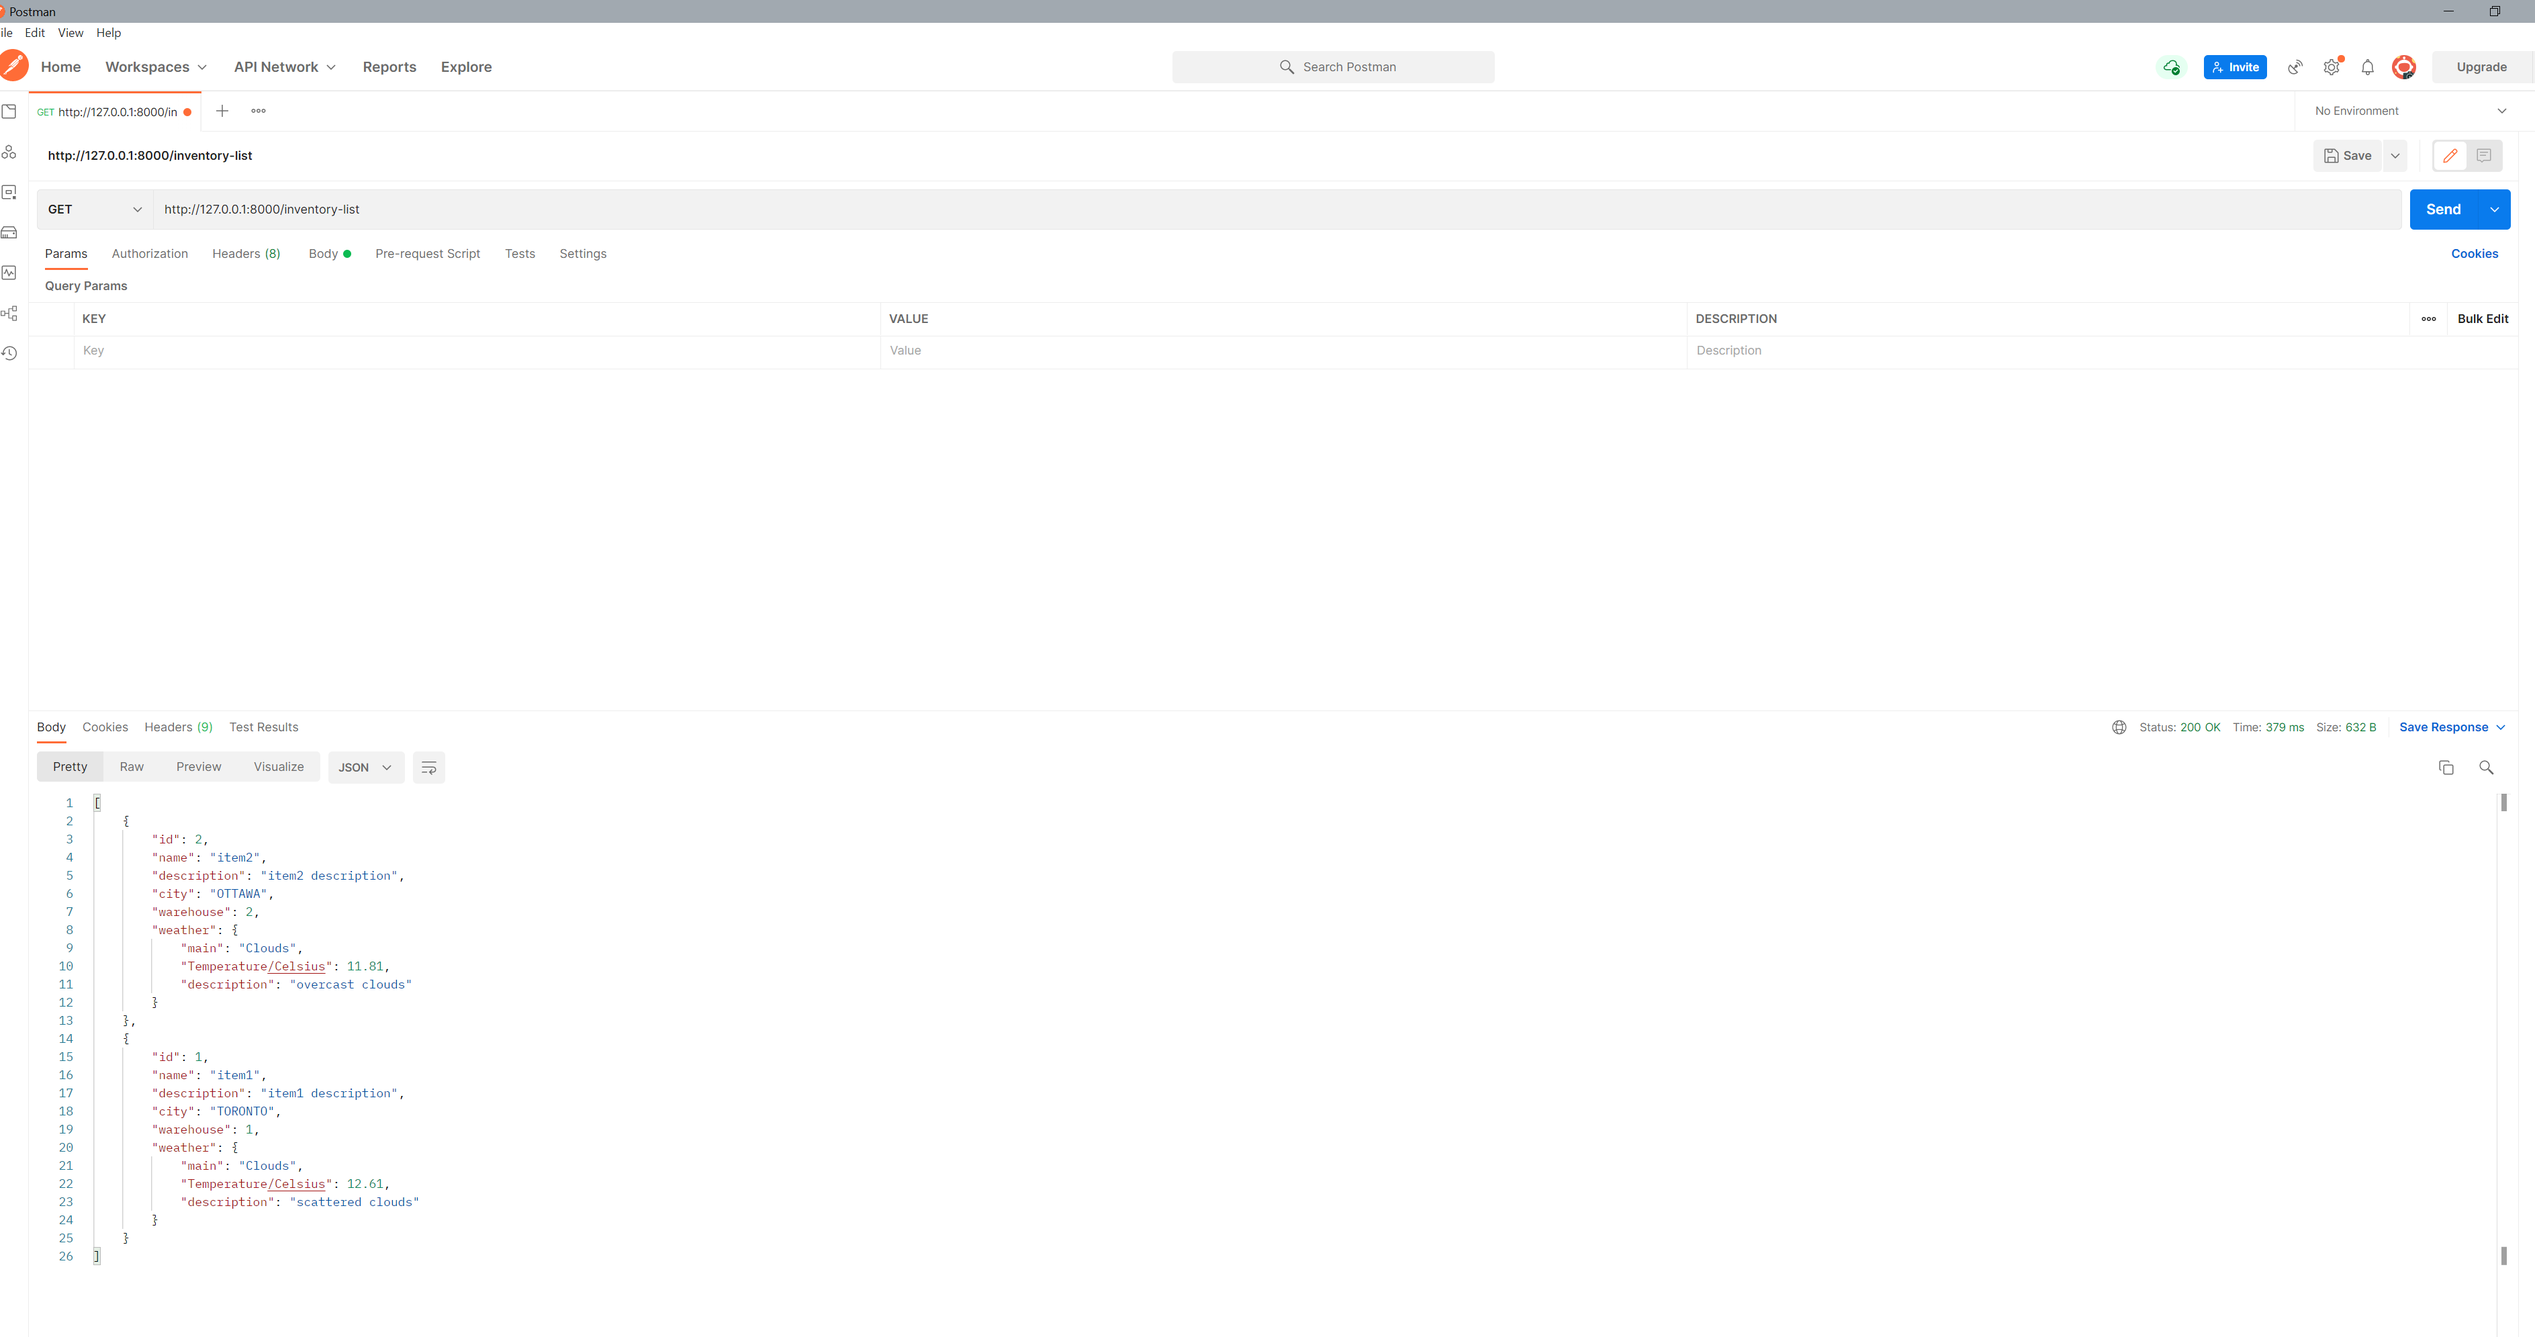
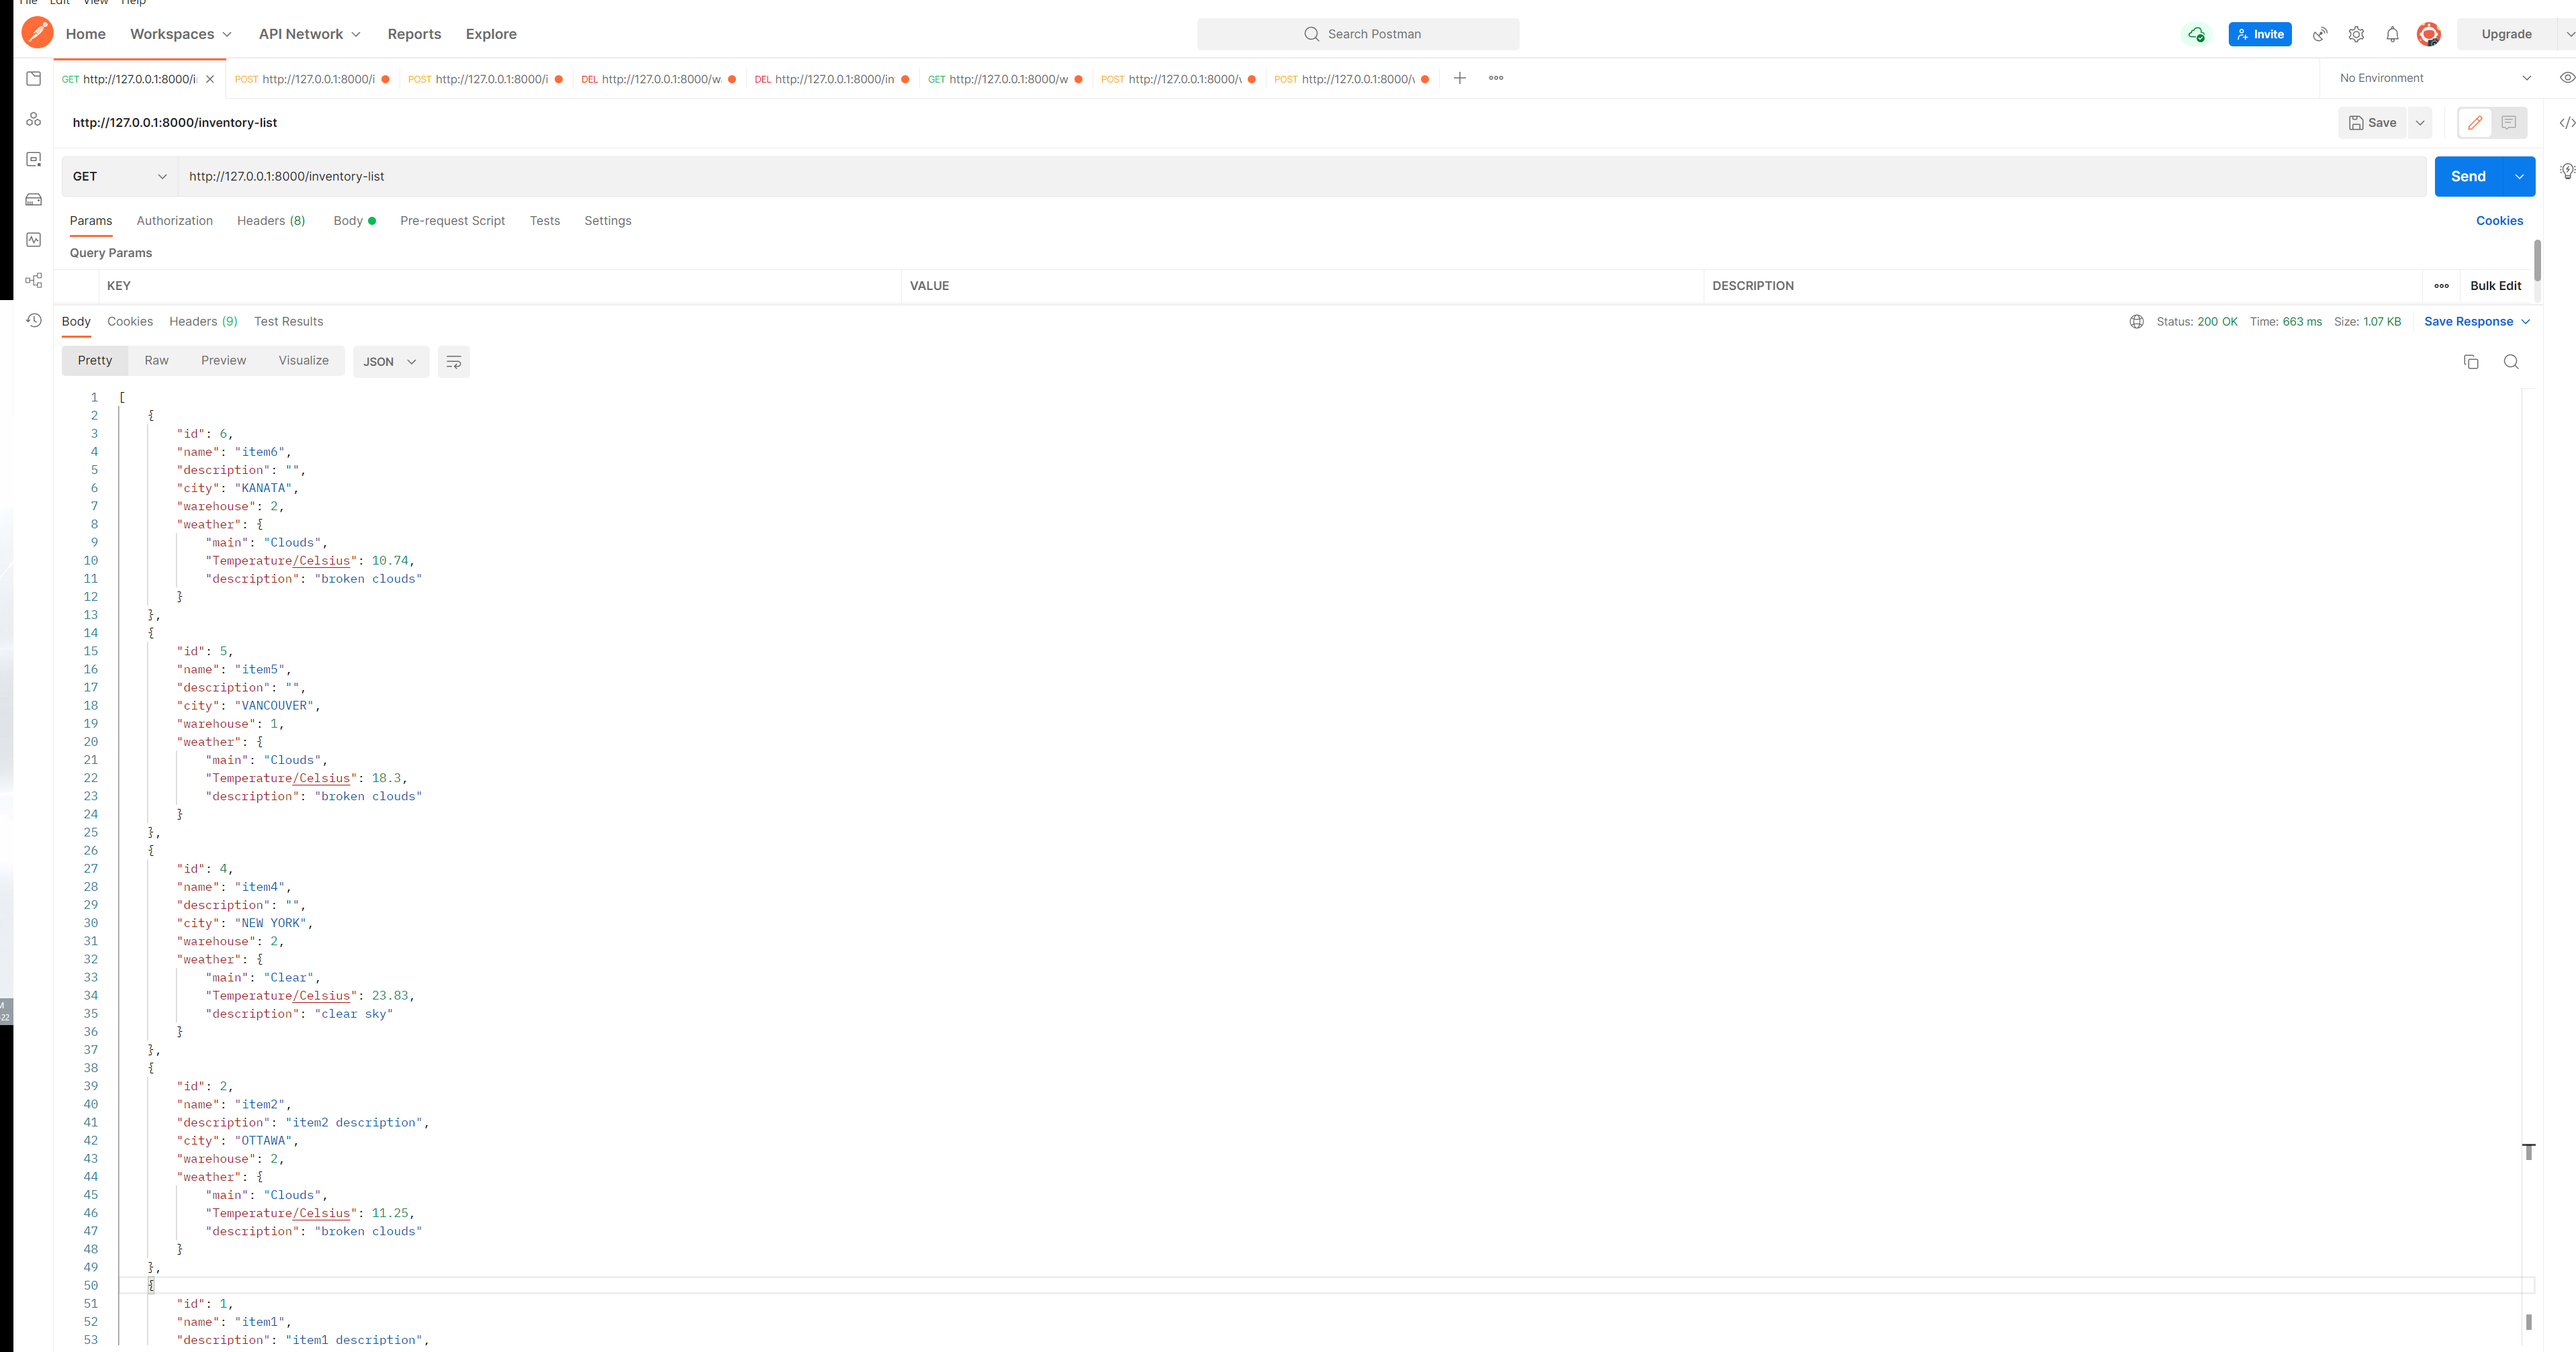
adding features

diff --git a/README.md b/README.md
@@ -1,8 +1,8 @@
 # Shopify-Backend-Internship-Challenge Fall 2022
 
-Challenge description: [Fall 2022 - Shopify Developer Intern Challenge Question](https://docs.google.com/document/d/1PoxpoaJymXmFB3iCMhGL6js-ibht7GO_DkCF2elCySU/edit#heading=h.n7bww7g70ipk)
+Challenge description: [Fall 2022 - Shopify Developer Intern Challenge Question](https://docs.google.com/document/d/1cgmV2DW5mEOxhh5ekyopU4Cef07FNalP7WqAJdgpBuw/edit?usp=sharing)
 
-[Github](https://github.com/AaPaul/Shopify-Backend-Intership-Challenge)
+[Github](https://github.com/AaPaul/shopify_challenge_2022_PE)
 
 [Replit publish address](https://replit.com/@bunabulapa/shopify-challenge?v=1)
 
@@ -112,7 +112,7 @@ Before we starting the test, we need to check if you have the required database 
 
 ### Inventory part
 #### 1. View of a list of all items
-The url for get all inventory items is `http://127.0.0.1:8000/inventory-list`.After sending a get request by Postman, we can get the result shows below.
+The url for get all inventory items is `http://127.0.0.1:8000/inventory-list`.After sending a get request by Postman, we can get the result shows below. Here is the result after adding 4 different items which is to satisfy the requirement that we are supposed to display at least 5 different cities' weather.
 ![](./imgs/inventory_list.png)
 
 #### 2. Adding a new inventory item
